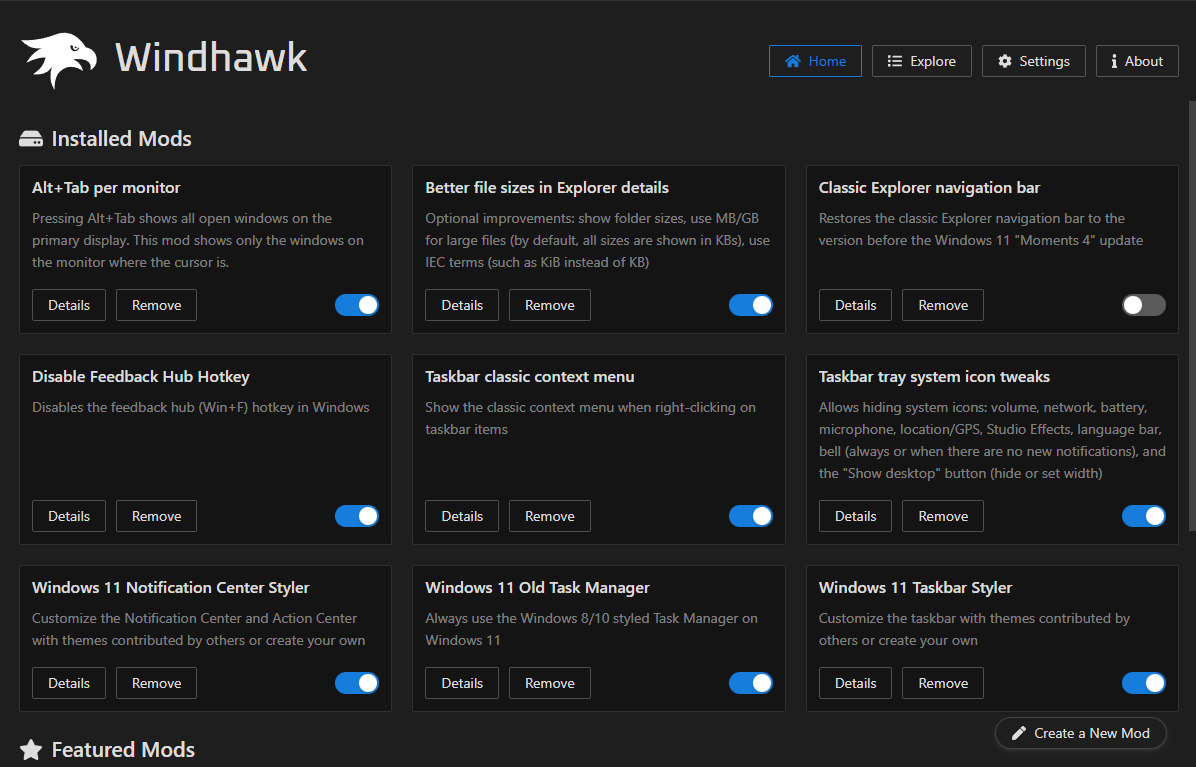
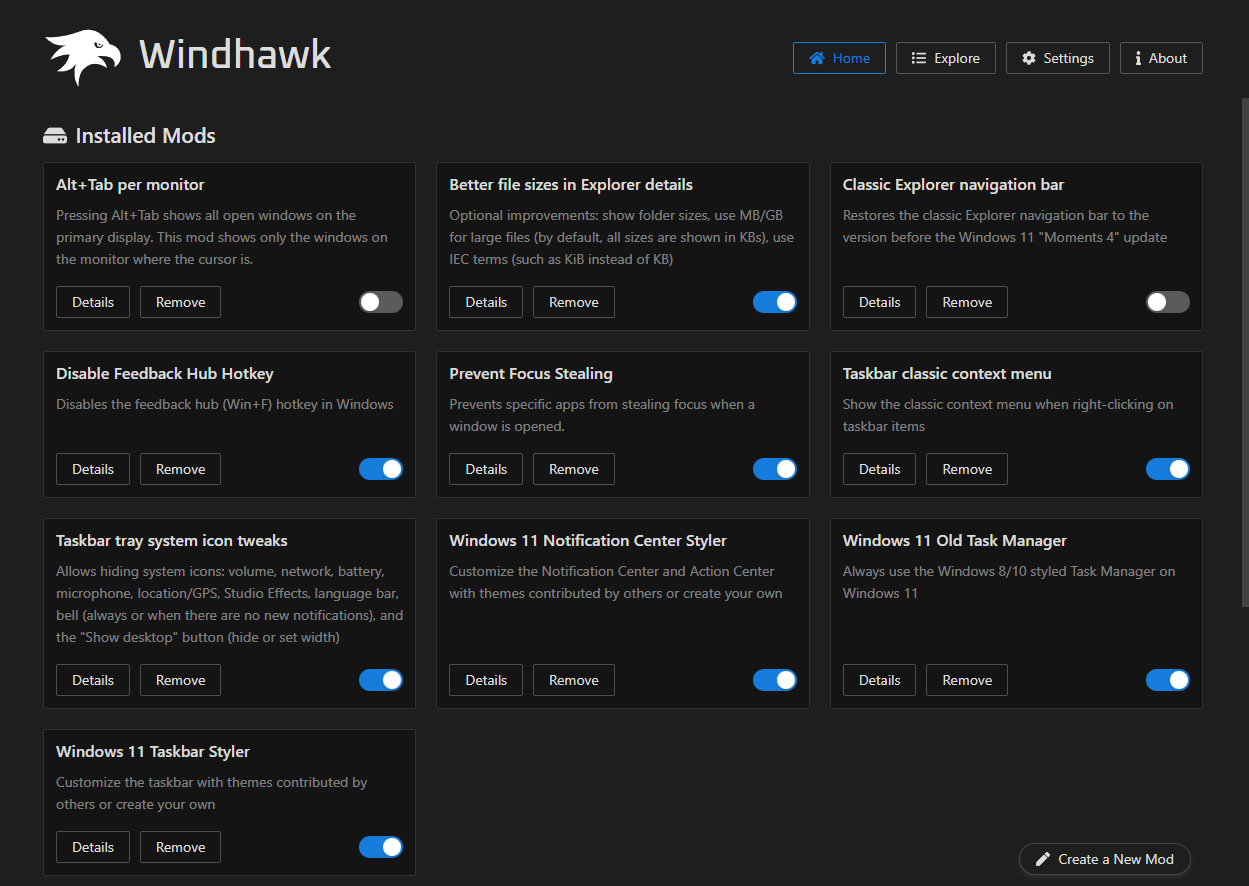
prevent focus stealing avaliable in windhawk.. interesting.. not sure I recommend adding acad.exe but I'm going to try it. def adding ms-teams.exe because it's very annoying when someone hangs up the application has to take focus and I think that's an event mistake.

diff --git a/windhawk.md b/windhawk.md
@@ -8,3 +8,5 @@
 ![Taskbar_tray_system_icon_tweaks](https://raw.githubusercontent.com/laosmidas/win-glaze-dots/refs/heads/main/ScreenShots_For_Guides/windhawk/Taskbar_tray_system_icon_tweaks.png)
 ## Windows_11_Taskbar_Styler
 ![Windows_11_Taskbar_Styler](https://raw.githubusercontent.com/laosmidas/win-glaze-dots/refs/heads/main/ScreenShots_For_Guides/windhawk/Windows_11_Taskbar_Styler.png)
+## Prevent_Focus_Stealing
+![Prevent_Focus_Stealing](https://raw.githubusercontent.com/laosmidas/win-glaze-dots/refs/heads/main/ScreenShots_For_Guides/windhawk/Prevent_Focus_Stealing.png)
